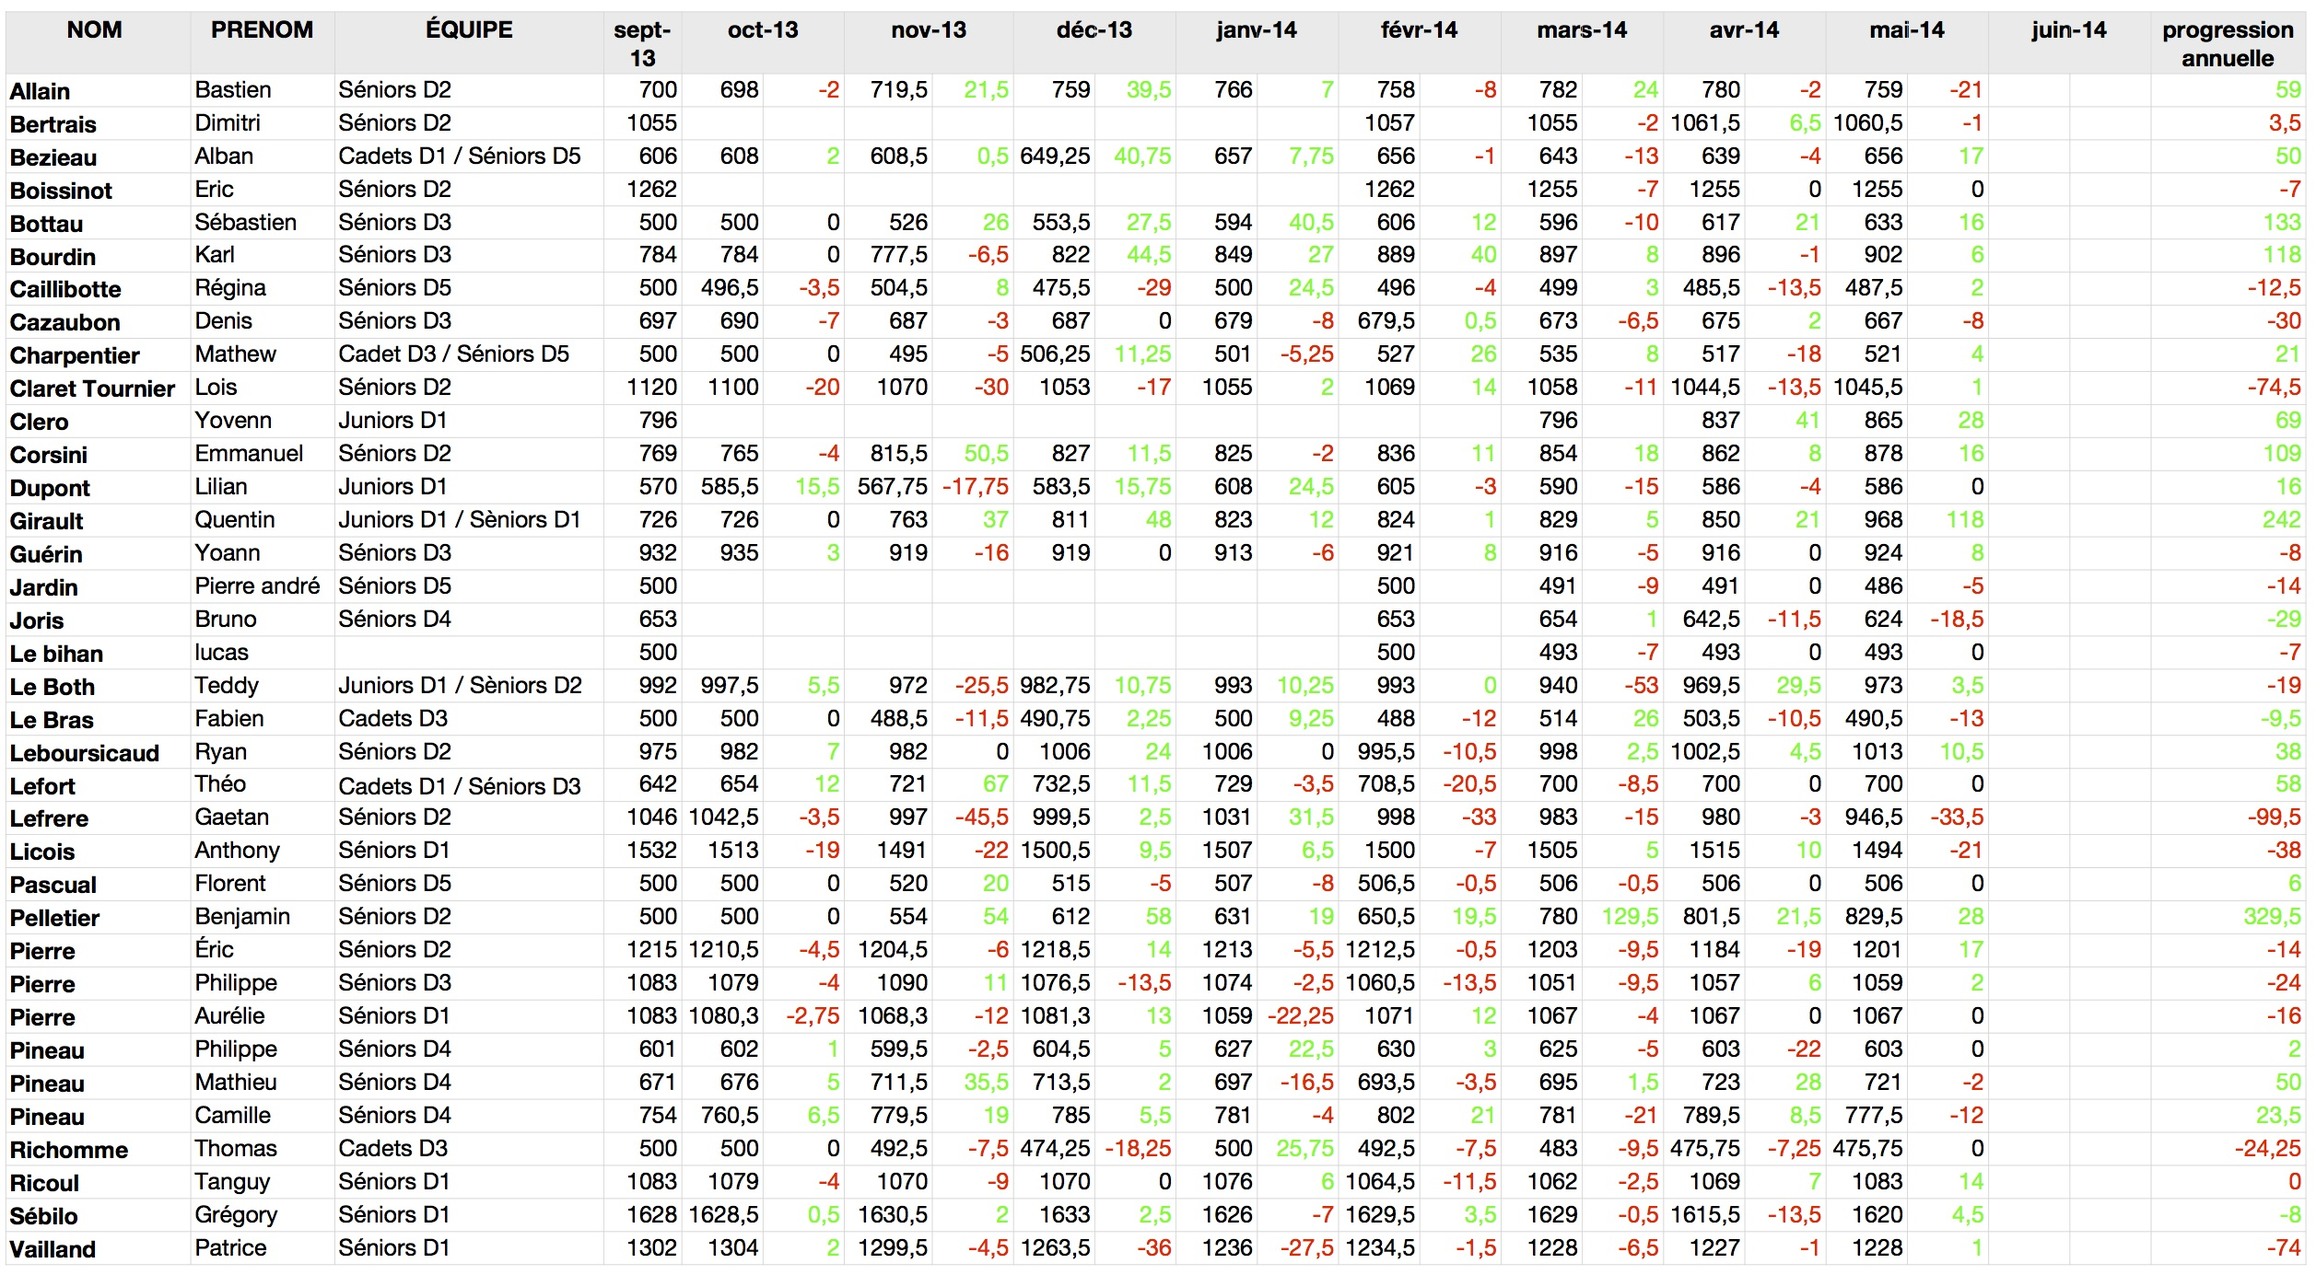
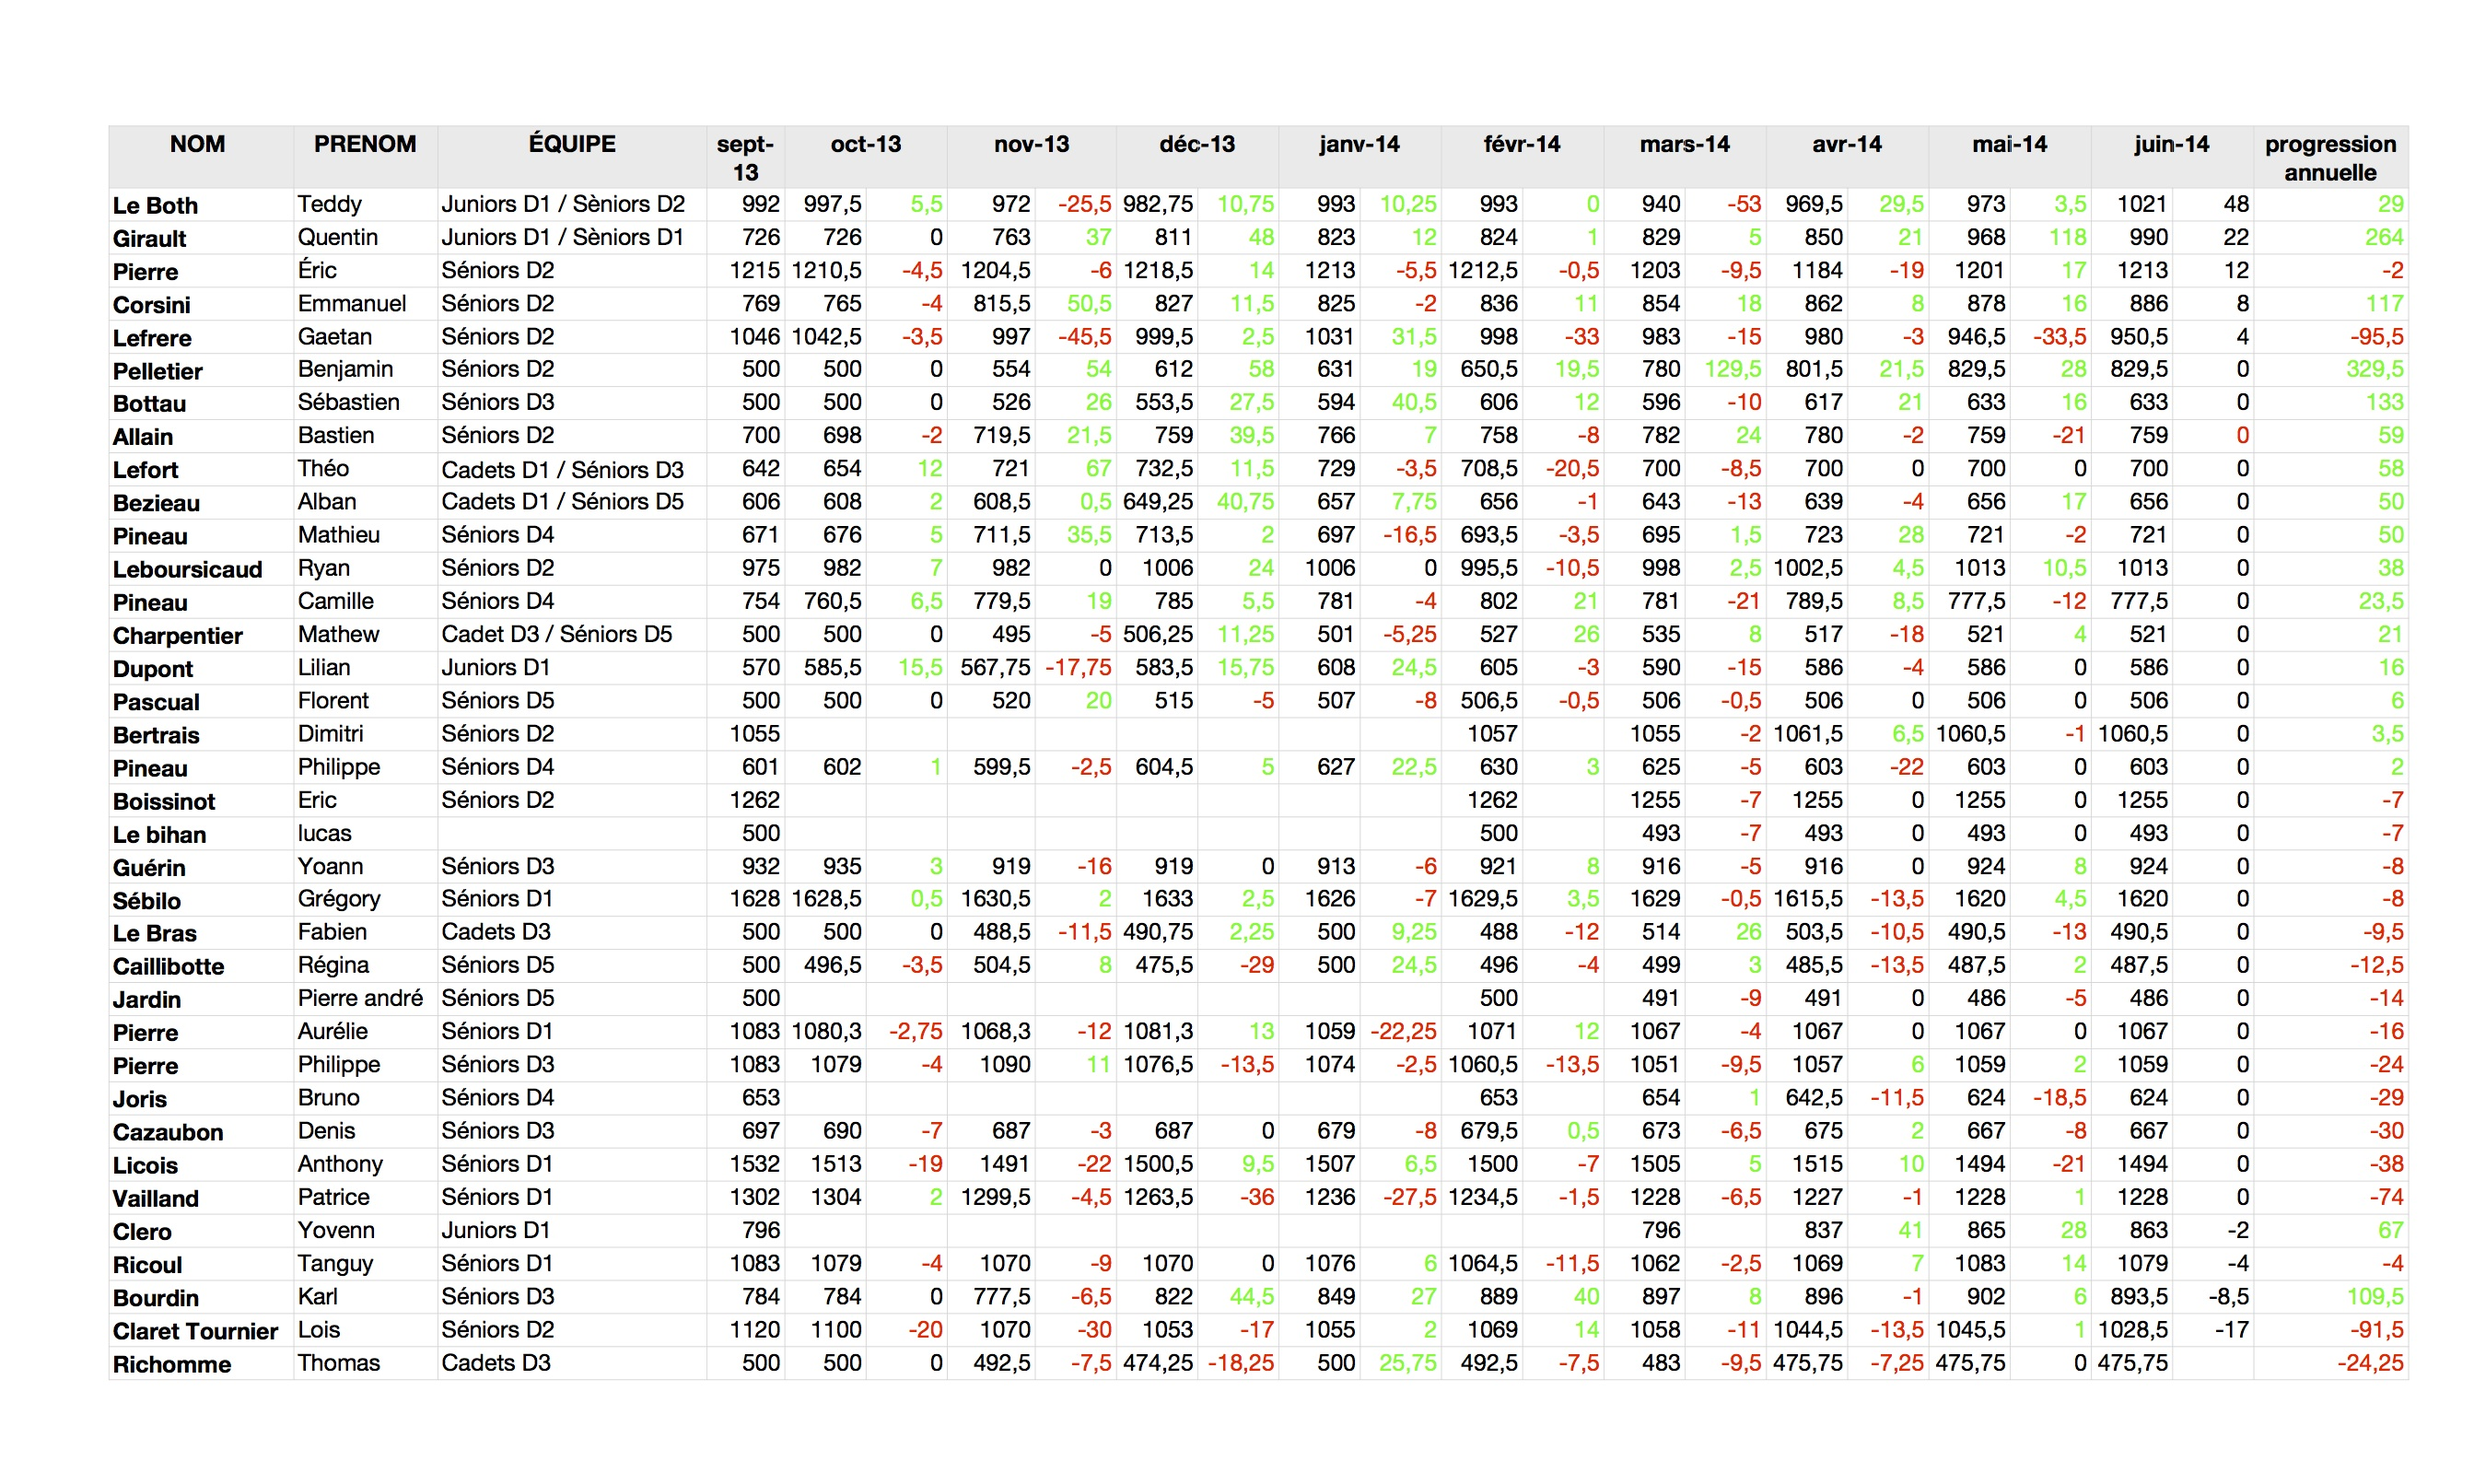
MAJ progression

diff --git a/index.php b/index.php
@@ -38,9 +38,9 @@
 
         <aside id="progmensuelle" class="span4">
             <h4>Meilleure progression mensuelle</h4>
-            <p><img alt="trophée" src="img/coupe1.png" width="15%;">Girault Quentin +118</p>
-            <p><img alt="trophée" src="img/coupe2.png" width="15%;"> Pelletier Benjamin +28</p>
-            <p><img alt="trophée" src="img/coupe3.png" width="15%;">Clero Yovenn  + 28</p>
+            <p><img alt="trophée" src="img/coupe1.png" width="15%;">Leboth Teddy +48</p>
+            <p><img alt="trophée" src="img/coupe2.png" width="15%;"> Girault Quentin +22</p>
+            <p><img alt="trophée" src="img/coupe3.png" width="15%;">Pierre Éric  + 12</p>
         </aside>
 
     </article>	
